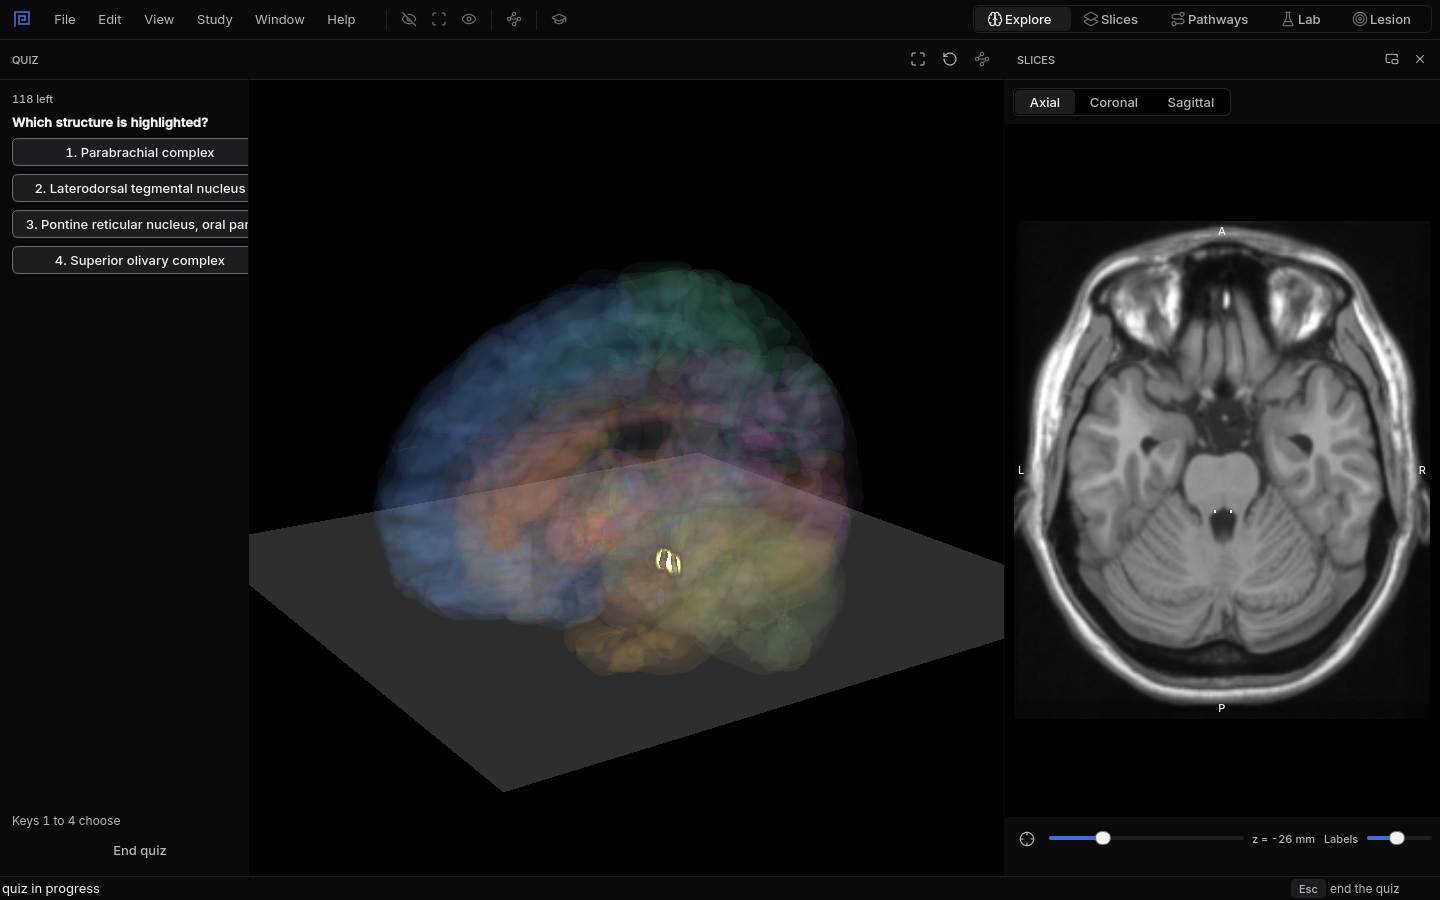
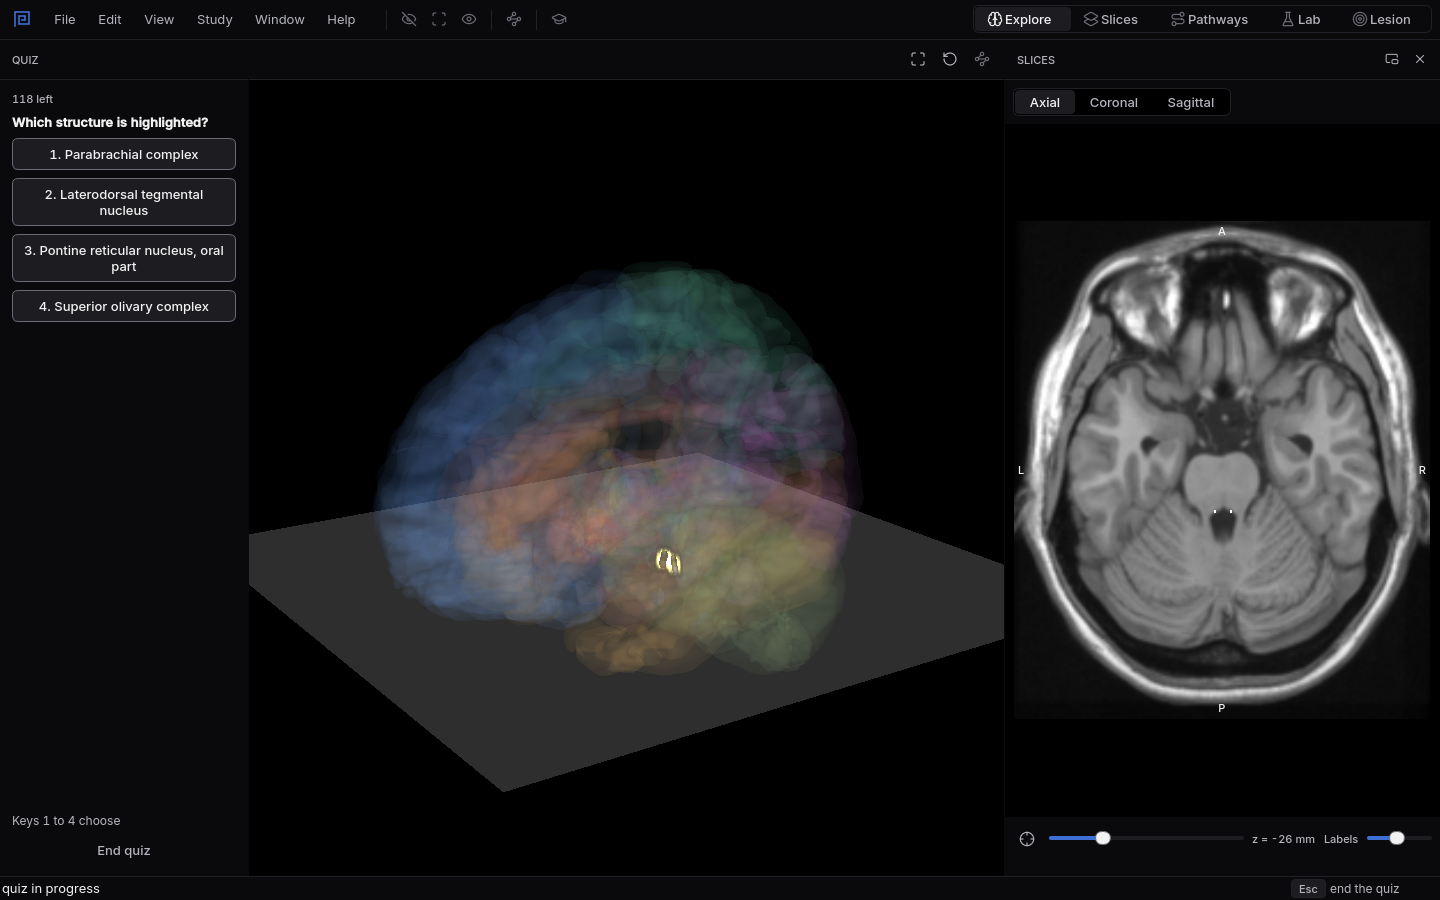
Wrap long answer choices inside the quiz panel so names like Pontine reticular nucleus, oral part show in full

Changed region(s): [[0.0, 0.1556, 0.1875, 0.3733], [0.0625, 0.9333, 0.125, 0.9644]]

diff --git a/cns_desktop/views/quiz_panel.py b/cns_desktop/views/quiz_panel.py
@@ -6,9 +6,9 @@ import time
 from html import escape
 
 from fsrs import Rating
-from PySide6.QtCore import Qt, QTimer, Signal
-from PySide6.QtWidgets import (QHBoxLayout, QLabel, QLineEdit, QPushButton, QTextBrowser,
-                               QVBoxLayout, QWidget)
+from PySide6.QtCore import QSize, Qt, QTimer, Signal
+from PySide6.QtWidgets import (QHBoxLayout, QLabel, QLineEdit, QPushButton, QSizePolicy,
+                               QTextBrowser, QVBoxLayout, QWidget)
 
 from cns_study.answers import AnswerIndex
 from cns_study.choices import choices
@@ -41,6 +41,52 @@ class AnswerBox(QLineEdit):
             self.submitted.emit(self.text())
             return
         super().keyPressEvent(event)
+
+
+class ChoiceButton(QPushButton):
+    def __init__(self, parent=None) -> None:
+        super().__init__(parent)
+        self.setProperty("wrap", True)
+        self.label = QLabel(self)
+        self.label.setWordWrap(True)
+        self.label.setTextFormat(Qt.TextFormat.PlainText)
+        self.label.setAlignment(Qt.AlignmentFlag.AlignCenter)
+        self.label.setAttribute(Qt.WidgetAttribute.WA_TransparentForMouseEvents)
+        layout = QHBoxLayout(self)
+        layout.setContentsMargins(GAP["medium"], GAP["small"], GAP["medium"], GAP["small"])
+        layout.addWidget(self.label)
+        policy = QSizePolicy(QSizePolicy.Policy.Preferred, QSizePolicy.Policy.Preferred)
+        policy.setHeightForWidth(True)
+        self.setSizePolicy(policy)
+
+    def text(self) -> str:
+        return self.label.text()
+
+    def setText(self, text: str) -> None:
+        self.label.setText(text)
+        self.updateGeometry()
+
+    def _pad(self) -> tuple[int, int]:
+        margins = self.layout().contentsMargins()
+        return margins.left() + margins.right(), margins.top() + margins.bottom()
+
+    def hasHeightForWidth(self) -> bool:
+        return True
+
+    def heightForWidth(self, width: int) -> int:
+        across, down = self._pad()
+        text = self.label.heightForWidth(max(width - across, 1))
+        return max(text + down, SIZE["control"])
+
+    def minimumSizeHint(self) -> QSize:
+        across, _ = self._pad()
+        width = across + self.fontMetrics().horizontalAdvance("0" * 8)
+        return QSize(width, self.heightForWidth(width))
+
+    def sizeHint(self) -> QSize:
+        across, _ = self._pad()
+        width = across + self.fontMetrics().horizontalAdvance(self.text())
+        return QSize(width, self.heightForWidth(width))
 
 
 def _rich_label() -> QLabel:
@@ -76,7 +122,7 @@ class QuizPanel(QWidget):
         self.counter = QLabel()
         self.prompt = _rich_label()
         self.answer_box = AnswerBox(placeholderText="Type the name, then press Enter")
-        self.choice_buttons = [QPushButton() for _ in range(4)]
+        self.choice_buttons = [ChoiceButton() for _ in range(4)]
         self.feedback = _rich_label()
         self.back = QTextBrowser()
         self.reveal_button = QPushButton("Show the description")

diff --git a/cns_desktop/design/stylesheet.py b/cns_desktop/design/stylesheet.py
@@ -91,6 +91,8 @@ QPushButton[variant="ghost"] { background: transparent; border: 1px solid transp
     color: $text2; }
 QPushButton[variant="ghost"]:hover { background: $s2; color: $text; }
 QPushButton[variant="ghost"]:focus { border: 1px solid $accent; }
+QPushButton[wrap="true"] { max-height: 4000px; padding: 0; }
+QPushButton[wrap="true"] QLabel { background: transparent; color: $text; font-weight: 500; }
 
 QToolButton { background: transparent; color: $text2; border: 1px solid transparent;
     border-radius: ${r_control}px; padding: 0; }
